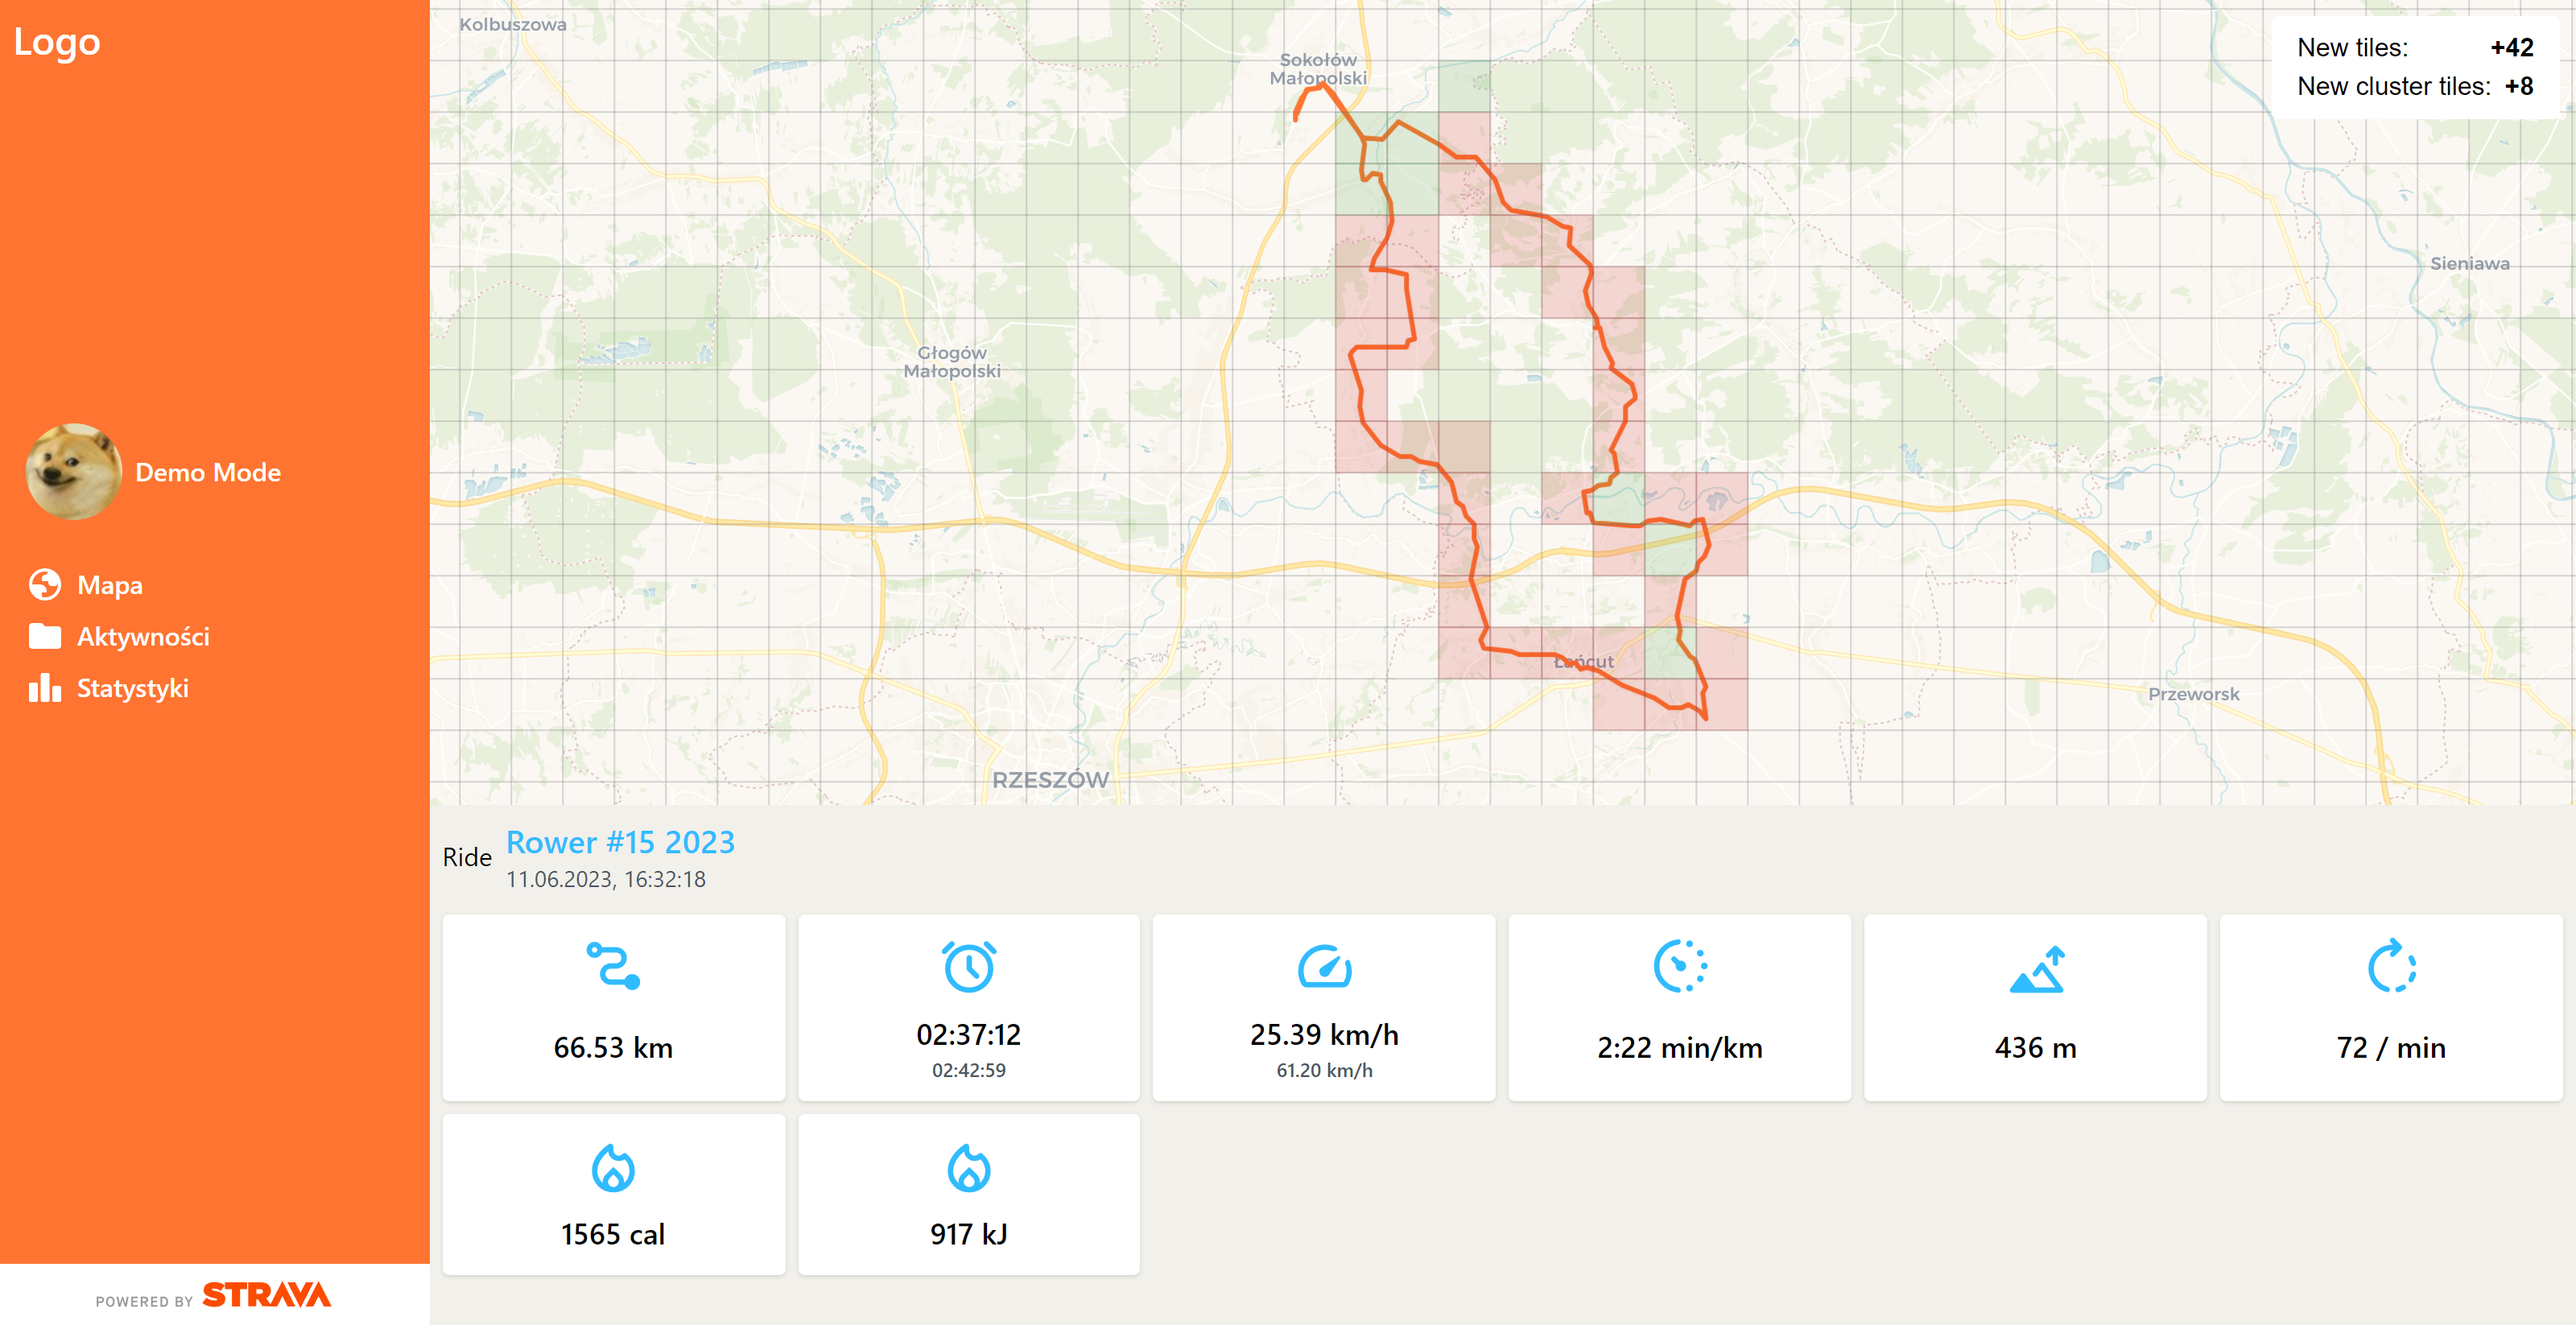
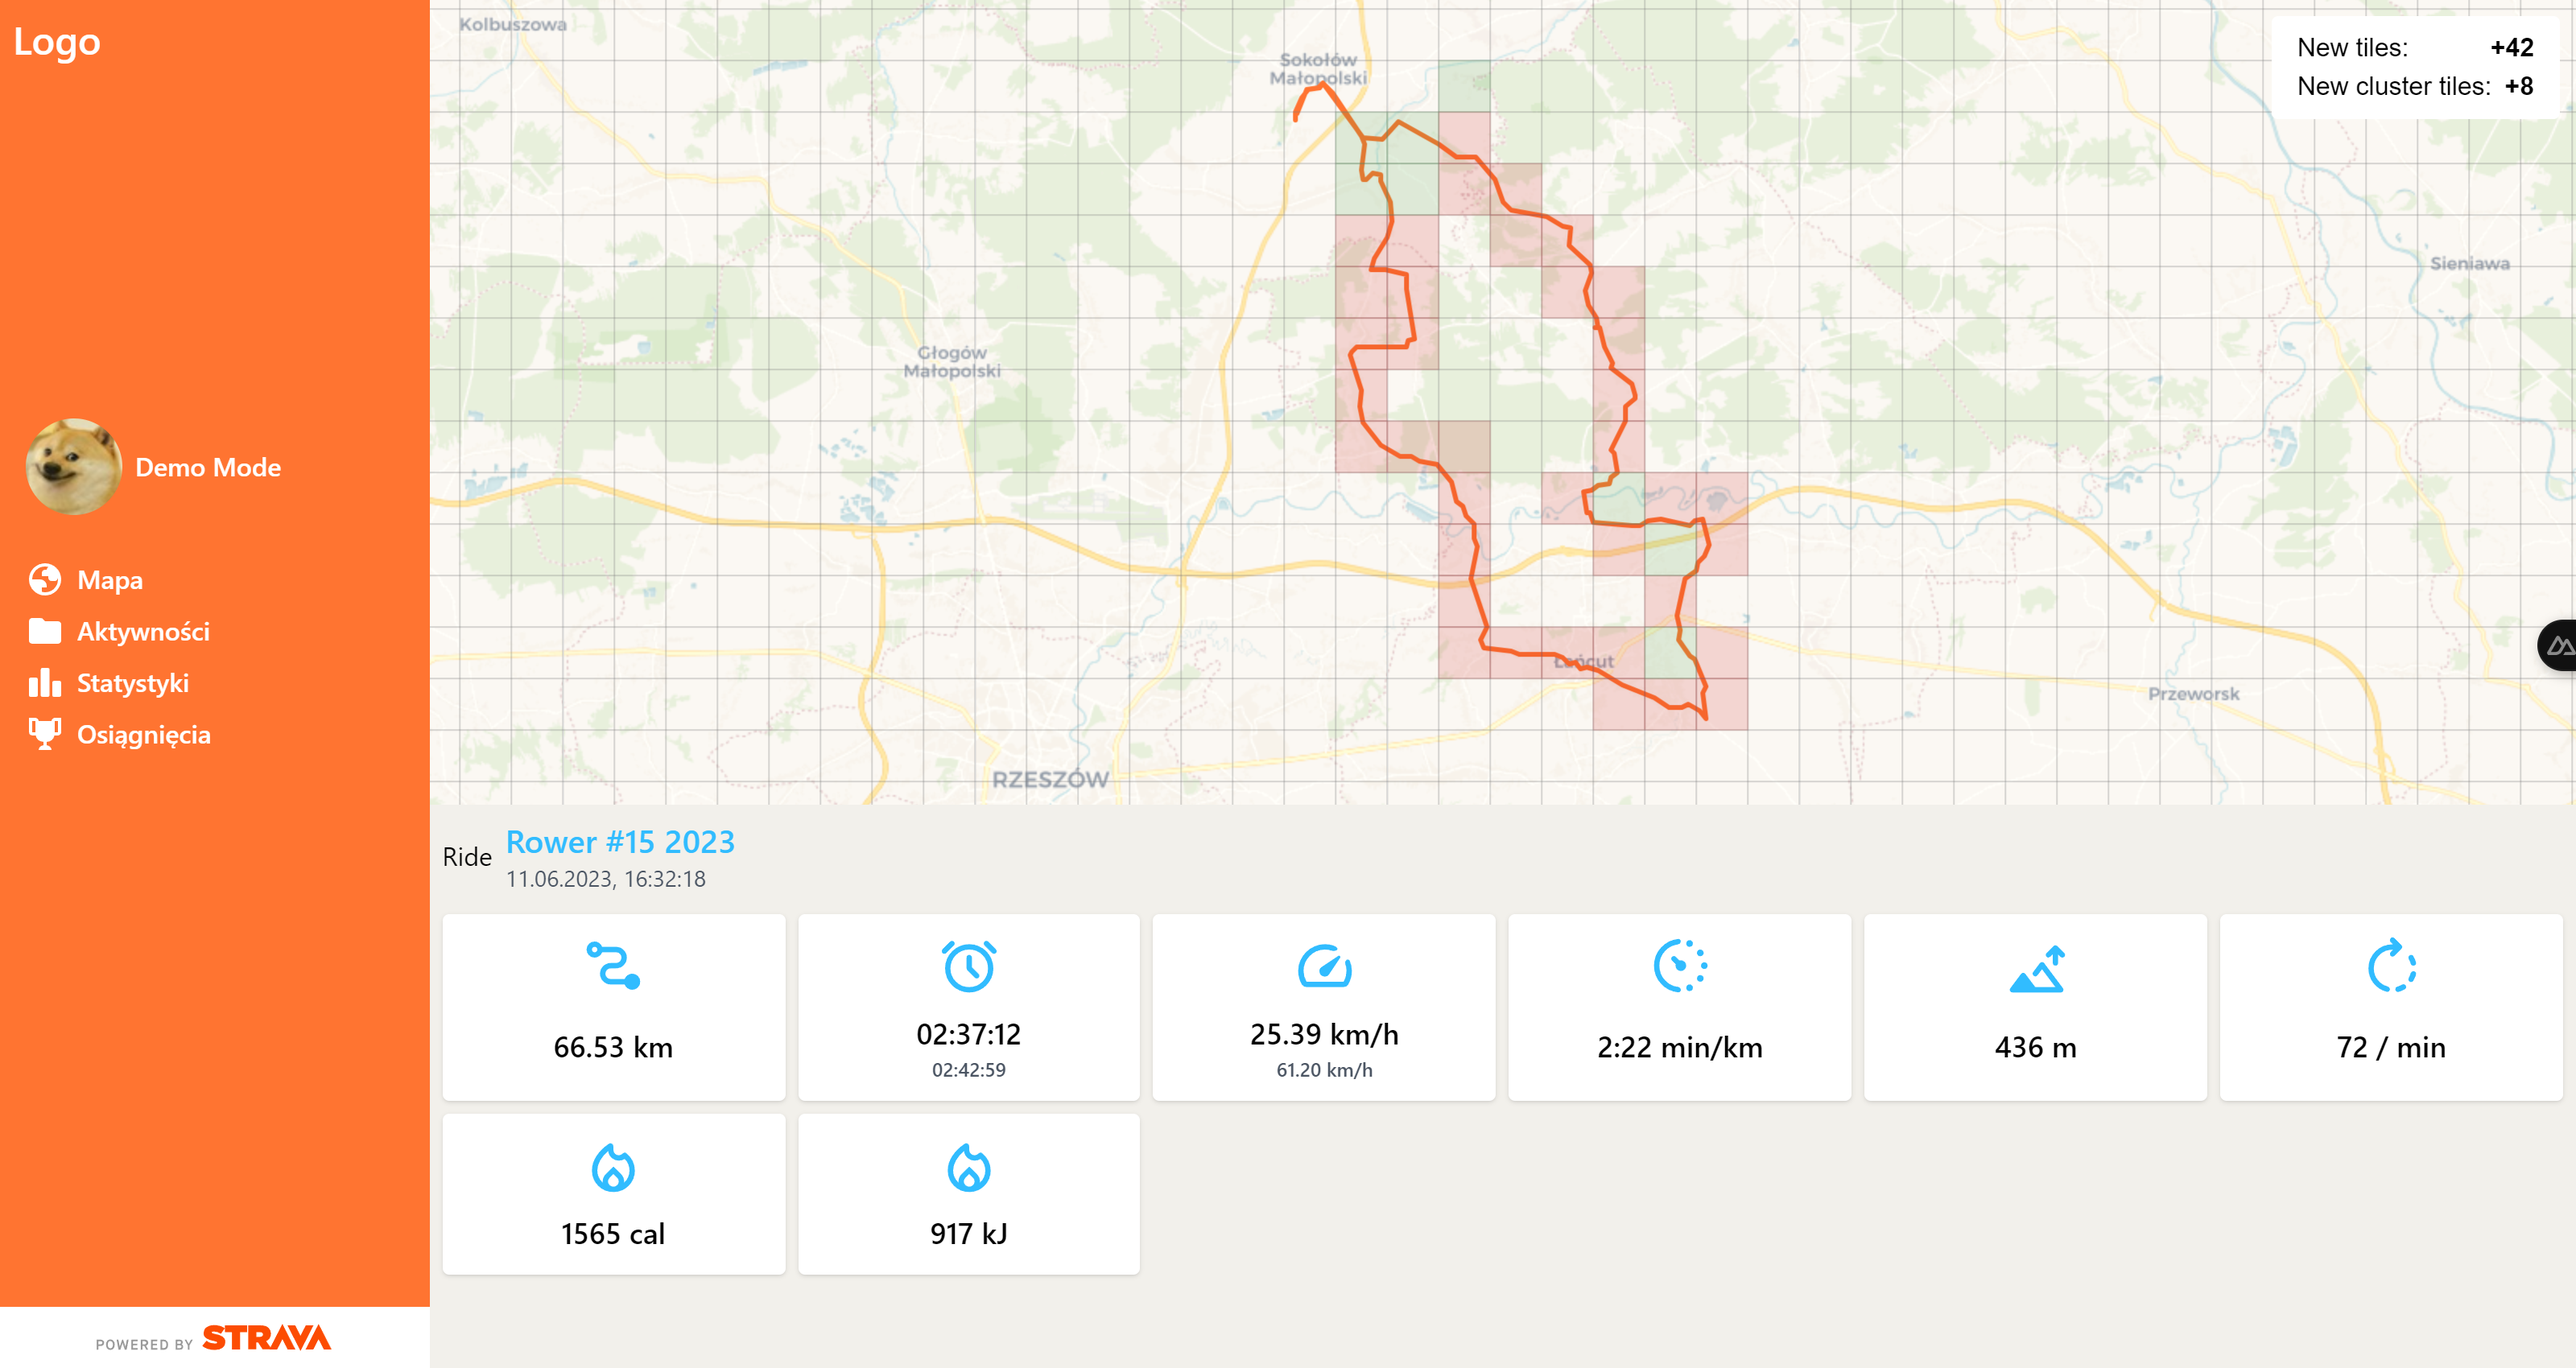
Update README

diff --git a/README.md b/README.md
@@ -51,6 +51,14 @@ Statistics are calculated based on all activities. User can find there: active d
 
 ![Statistics page](docs/images/statistics.png)
 
+### Achievements page
+
+This page contains list of achievements. After selecting one by clicking on it, modal will be shown with more detailed informations about achievement.
+
+![Achievements page](docs/images/achievements.png)
+
+![Selected achievement](docs/images/selected-achievement.png)
+
 ## Setup
 
 To use app in demo mode without backend api, there is no need to create .env file. Othervice create it with following variables:
